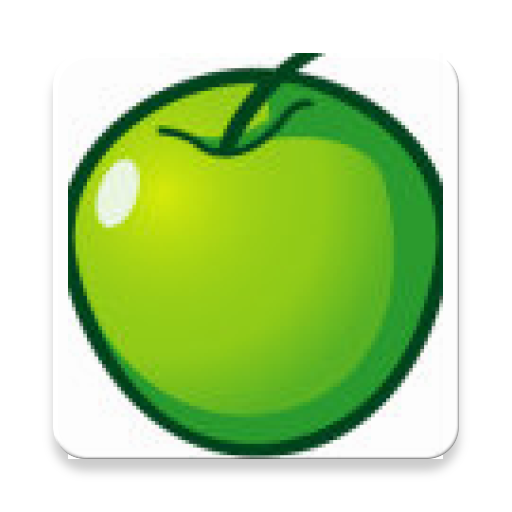
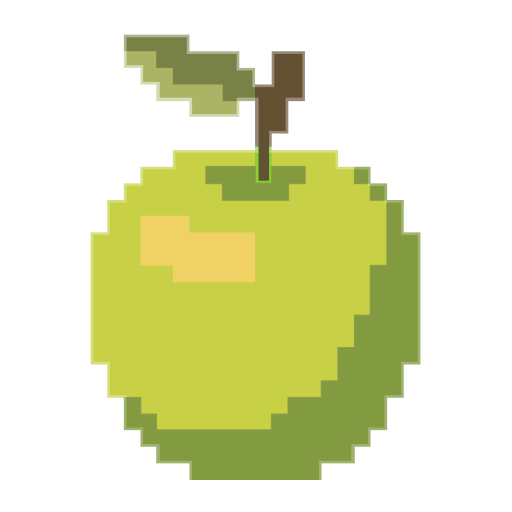
added new pixel art, changed colors to be a bit more appealing, added a gif to the readme

diff --git a/app/src/main/java/thegroup/snakego/utils/Utils.java b/app/src/main/java/thegroup/snakego/utils/Utils.java
@@ -3,6 +3,7 @@ package thegroup.snakego.utils;
 import com.google.android.gms.maps.model.LatLng;
 import com.google.android.gms.maps.model.PolygonOptions;
 
+import android.graphics.Color;
 import android.location.Location;
 
 import java.util.ArrayList;
@@ -10,7 +11,7 @@ import java.util.Collection;
 
 public class Utils {
 
-    private static final double RECTANGLESIZE = 0.00001;
+    private static final double RECT_SIZE = 0.00001;
 
     public static float distance(LatLng lat1, LatLng lat2) {
         Location location1 = new Location("1");
@@ -23,10 +24,13 @@ public class Utils {
     }
 
     public static PolygonOptions computeRectangleFromCenterPoint(LatLng center) {
-        return new PolygonOptions().add(new LatLng(center.latitude - RECTANGLESIZE, center.longitude - RECTANGLESIZE),
-                new LatLng(center.latitude - RECTANGLESIZE, center.longitude + RECTANGLESIZE),
-                new LatLng(center.latitude + RECTANGLESIZE, center.longitude + RECTANGLESIZE),
-                new LatLng(center.latitude + RECTANGLESIZE, center.longitude - RECTANGLESIZE));
+        return new PolygonOptions()
+                .add(new LatLng(center.latitude - RECT_SIZE, center.longitude - RECT_SIZE),
+                        new LatLng(center.latitude - RECT_SIZE, center.longitude + RECT_SIZE),
+                        new LatLng(center.latitude + RECT_SIZE, center.longitude + RECT_SIZE),
+                        new LatLng(center.latitude + RECT_SIZE, center.longitude - RECT_SIZE)
+                )
+                .fillColor(Color.BLACK);
     }
 
     public static Collection<PolygonOptions> getRectanglesFromLine(LatLng p0, LatLng p1) {
@@ -34,11 +38,10 @@ public class Utils {
 
         LatLng center = computeCentroid(p0, p1);
 
-        if (Utils.distance(p0,p1) > 5) {
+        if (Utils.distance(p0, p1) > 5) {
             rectangles.addAll(getRectanglesFromLine(p0, center));
             rectangles.addAll(getRectanglesFromLine(center, p1));
-        }
-        else {
+        } else {
             rectangles.add(computeRectangleFromCenterPoint(center));
             rectangles.add(computeRectangleFromCenterPoint(p1));
         }
@@ -47,6 +50,6 @@ public class Utils {
     }
 
     public static LatLng computeCentroid(LatLng p0, LatLng p1) {
-        return new LatLng((p0.latitude + p1.latitude)/2, (p0.longitude + p1.longitude)/2);
+        return new LatLng((p0.latitude + p1.latitude) / 2, (p0.longitude + p1.longitude) / 2);
     }
 }

diff --git a/app/src/test/java/thegroup/snakego/FoodSpawningTest2.java b/app/src/test/java/thegroup/snakego/FoodSpawningTest2.java
@@ -29,7 +29,7 @@ public class FoodSpawningTest2 {
         // spawn some random entity
         BaseEntity entity = spawner.spawnEntity();
 
-        Assert.assertTrue(entity.getImage() == R.mipmap.ic_greenapple || entity.getImage() == R.mipmap.ic_redapple);
+        Assert.assertTrue(entity.getImage() == R.mipmap.green_apple || entity.getImage() == R.mipmap.red_apple);
     }
 
 }

diff --git a/app/src/main/java/thegroup/snakego/entities/GreenApple.java b/app/src/main/java/thegroup/snakego/entities/GreenApple.java
@@ -20,7 +20,7 @@ public class GreenApple extends BaseEntity implements AnimateEntity {
     }
 
     public int getImage() {
-        return R.mipmap.ic_greenapple;
+        return R.mipmap.green_apple;
     }
 
     public float getColor() {

diff --git a/app/src/main/java/thegroup/snakego/models/User.java b/app/src/main/java/thegroup/snakego/models/User.java
@@ -109,7 +109,7 @@ public class User implements Listenable {
     }
 
     public int getMaxSnakeLength() {
-        return ((score / 10) + 1);
+        return ((score / 10) + 2);
     }
 
     public boolean getMoving() {

diff --git a/app/src/main/java/thegroup/snakego/entities/RedApple.java b/app/src/main/java/thegroup/snakego/entities/RedApple.java
@@ -17,7 +17,7 @@ public class RedApple extends BaseEntity {
     }
 
     public int getImage() {
-        return R.mipmap.ic_redapple;
+        return R.mipmap.red_apple;
     }
 
     public float getColor() {

diff --git a/README.md b/README.md
@@ -2,6 +2,8 @@
 
 # Snake GO
 
+![Gameplay Animation](./gameplay.gif)
+
 ## Iteration 2 Summary
 
 **important note:** package directories in `app/src/main/java/thegroup/snakego/` have been changed to all lowercase for the new checkstyle guidelines. These changes may not show up if the repo had been pulled down from Github previously. Either rename the directories to all lowercase or remove and re-checkout the project from Github. 
